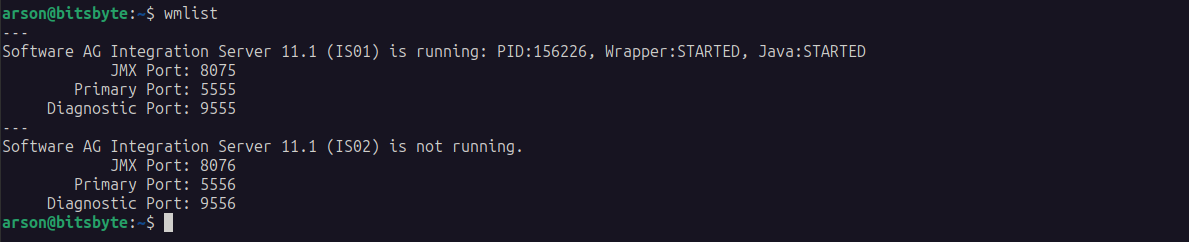
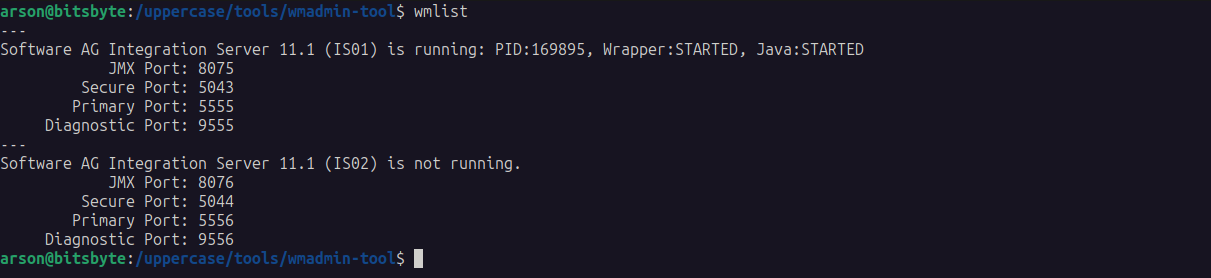
Fix: add default secure port for newly created integration server

Changed region(s): [[0.0, 0.1157, 0.7468, 0.4917], [0.0, 0.5207, 0.4357, 0.9835], [0.0, 0.0, 0.4045, 0.0868]]

diff --git a/README.md b/README.md
@@ -31,11 +31,13 @@ When creating new Integration server it will have below default value:
 Username         : Administrator
 Password         : manage
 JMX Port*        : 8075
+Secure Port*     : 5043
 Primary Port*    : 5555
 Diagnostic Port* : 9555
 
 * Will increase the ports automatically (+1) when new Integration Server created. e.g.:
   - JMX Port is 8076
+  - Secure Port is 5044
   - Primary Port is 5556
   - Diagnostic Port is 9556
 
